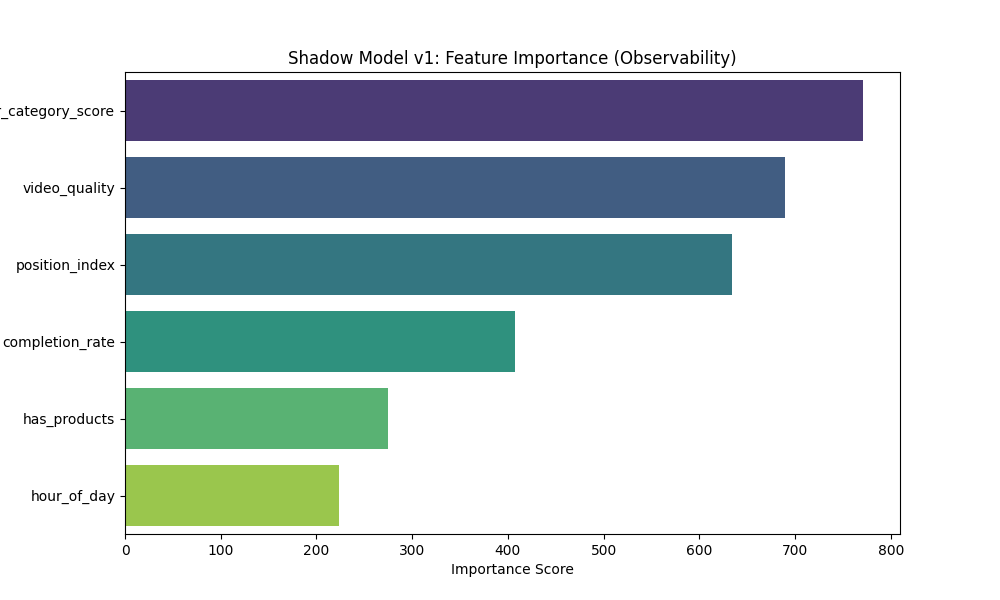
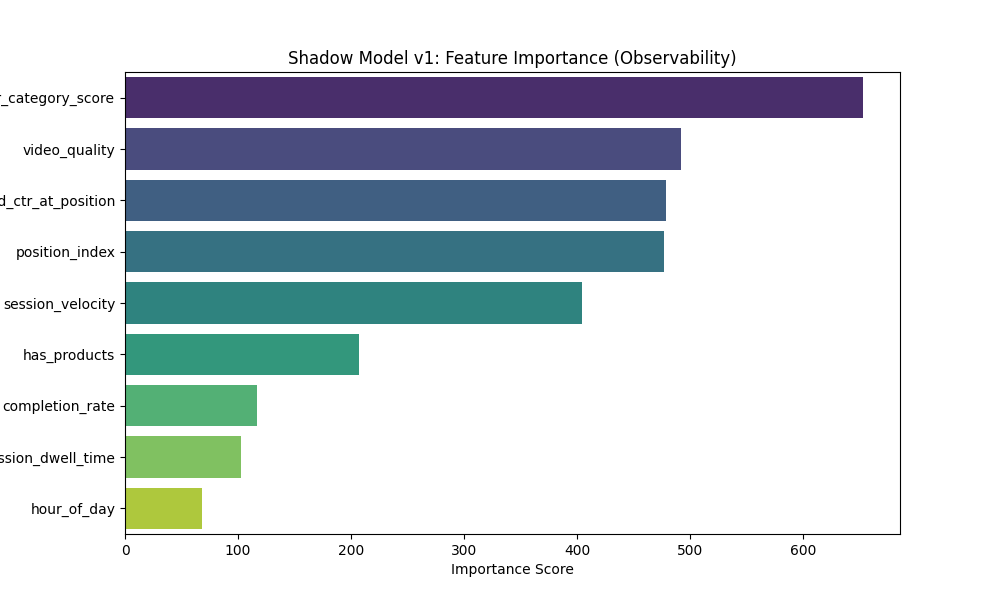
up

diff --git a/src/generate_synthetic_data.py b/src/generate_synthetic_data.py
@@ -31,6 +31,16 @@ def generate_synthetic_data(n_samples=10000):
     # completion_rate: 0 to 1
     completion_rate = np.random.uniform(0, 1, n_samples)
 
+    # 3.5 Intelligence Features (Phase 2)
+    # expected_ctr_at_position: Historical bias for this slot
+    expected_ctr_at_position = np.random.uniform(0.01, 0.15, n_samples)
+    
+    # session_velocity: How fast the user is scrolling (Higher = lower engagement probability)
+    session_velocity = np.random.uniform(0.5, 3.0, n_samples)
+    
+    # session_dwell_time: Total seconds in session
+    session_dwell_time = np.random.uniform(0, 600, n_samples)
+
     # 4. Hidden Intent Logic (The true 'Brain' we want to learn)
     # y = weighted combination + noise
     # We want the model to learn that Preference + Quality + Position matters most.
@@ -39,6 +49,8 @@ def generate_synthetic_data(n_samples=10000):
         (video_quality * 0.3) + 
         (has_products * 0.2) - 
         (position_index * 0.05) + # Higher position index = less likely to click
+        (expected_ctr_at_position * 2.0) - # Slot bias matters
+        (session_velocity * 0.1) + # Faster scrolling = less intent
         np.random.normal(0, 0.1, n_samples)
     )
 
@@ -58,6 +70,9 @@ def generate_synthetic_data(n_samples=10000):
         "has_products": has_products,
         "hour_of_day": hour_of_day,
         "completion_rate": completion_rate,
+        "expected_ctr_at_position": expected_ctr_at_position,
+        "session_velocity": session_velocity,
+        "session_dwell_time": session_dwell_time,
         "is_click": is_click,
         "is_purchase": is_purchase
     })

diff --git a/src/analyze_v1_features.py b/src/analyze_v1_features.py
@@ -28,7 +28,10 @@ def analyze_shadow_v1():
         "video_quality", 
         "has_products", 
         "hour_of_day", 
-        "completion_rate"
+        "completion_rate",
+        "expected_ctr_at_position",
+        "session_velocity",
+        "session_dwell_time"
     ]
 
     importance_df = pd.DataFrame({

diff --git a/src/train_hybrid_model.py b/src/train_hybrid_model.py
@@ -21,7 +21,10 @@ def train_v1_shadow(dataset_path="data/processed/synthetic_training.parquet"):
         "video_quality", 
         "has_products", 
         "hour_of_day", 
-        "completion_rate"
+        "completion_rate",
+        "expected_ctr_at_position",
+        "session_velocity",
+        "session_dwell_time"
     ]
     target = "is_click" # Using Click as the primary optimization target for v1
 

diff --git a/src/train_product_intent.py b/src/train_product_intent.py
@@ -21,7 +21,10 @@ def train_product_intent_model(dataset_path="data/processed/synthetic_training.p
         "video_quality", 
         "has_products", 
         "hour_of_day", 
-        "completion_rate"
+        "completion_rate",
+        "expected_ctr_at_position",
+        "session_velocity",
+        "session_dwell_time"
     ]
     target = "is_purchase" # Predicting shoppability/high-intent
 